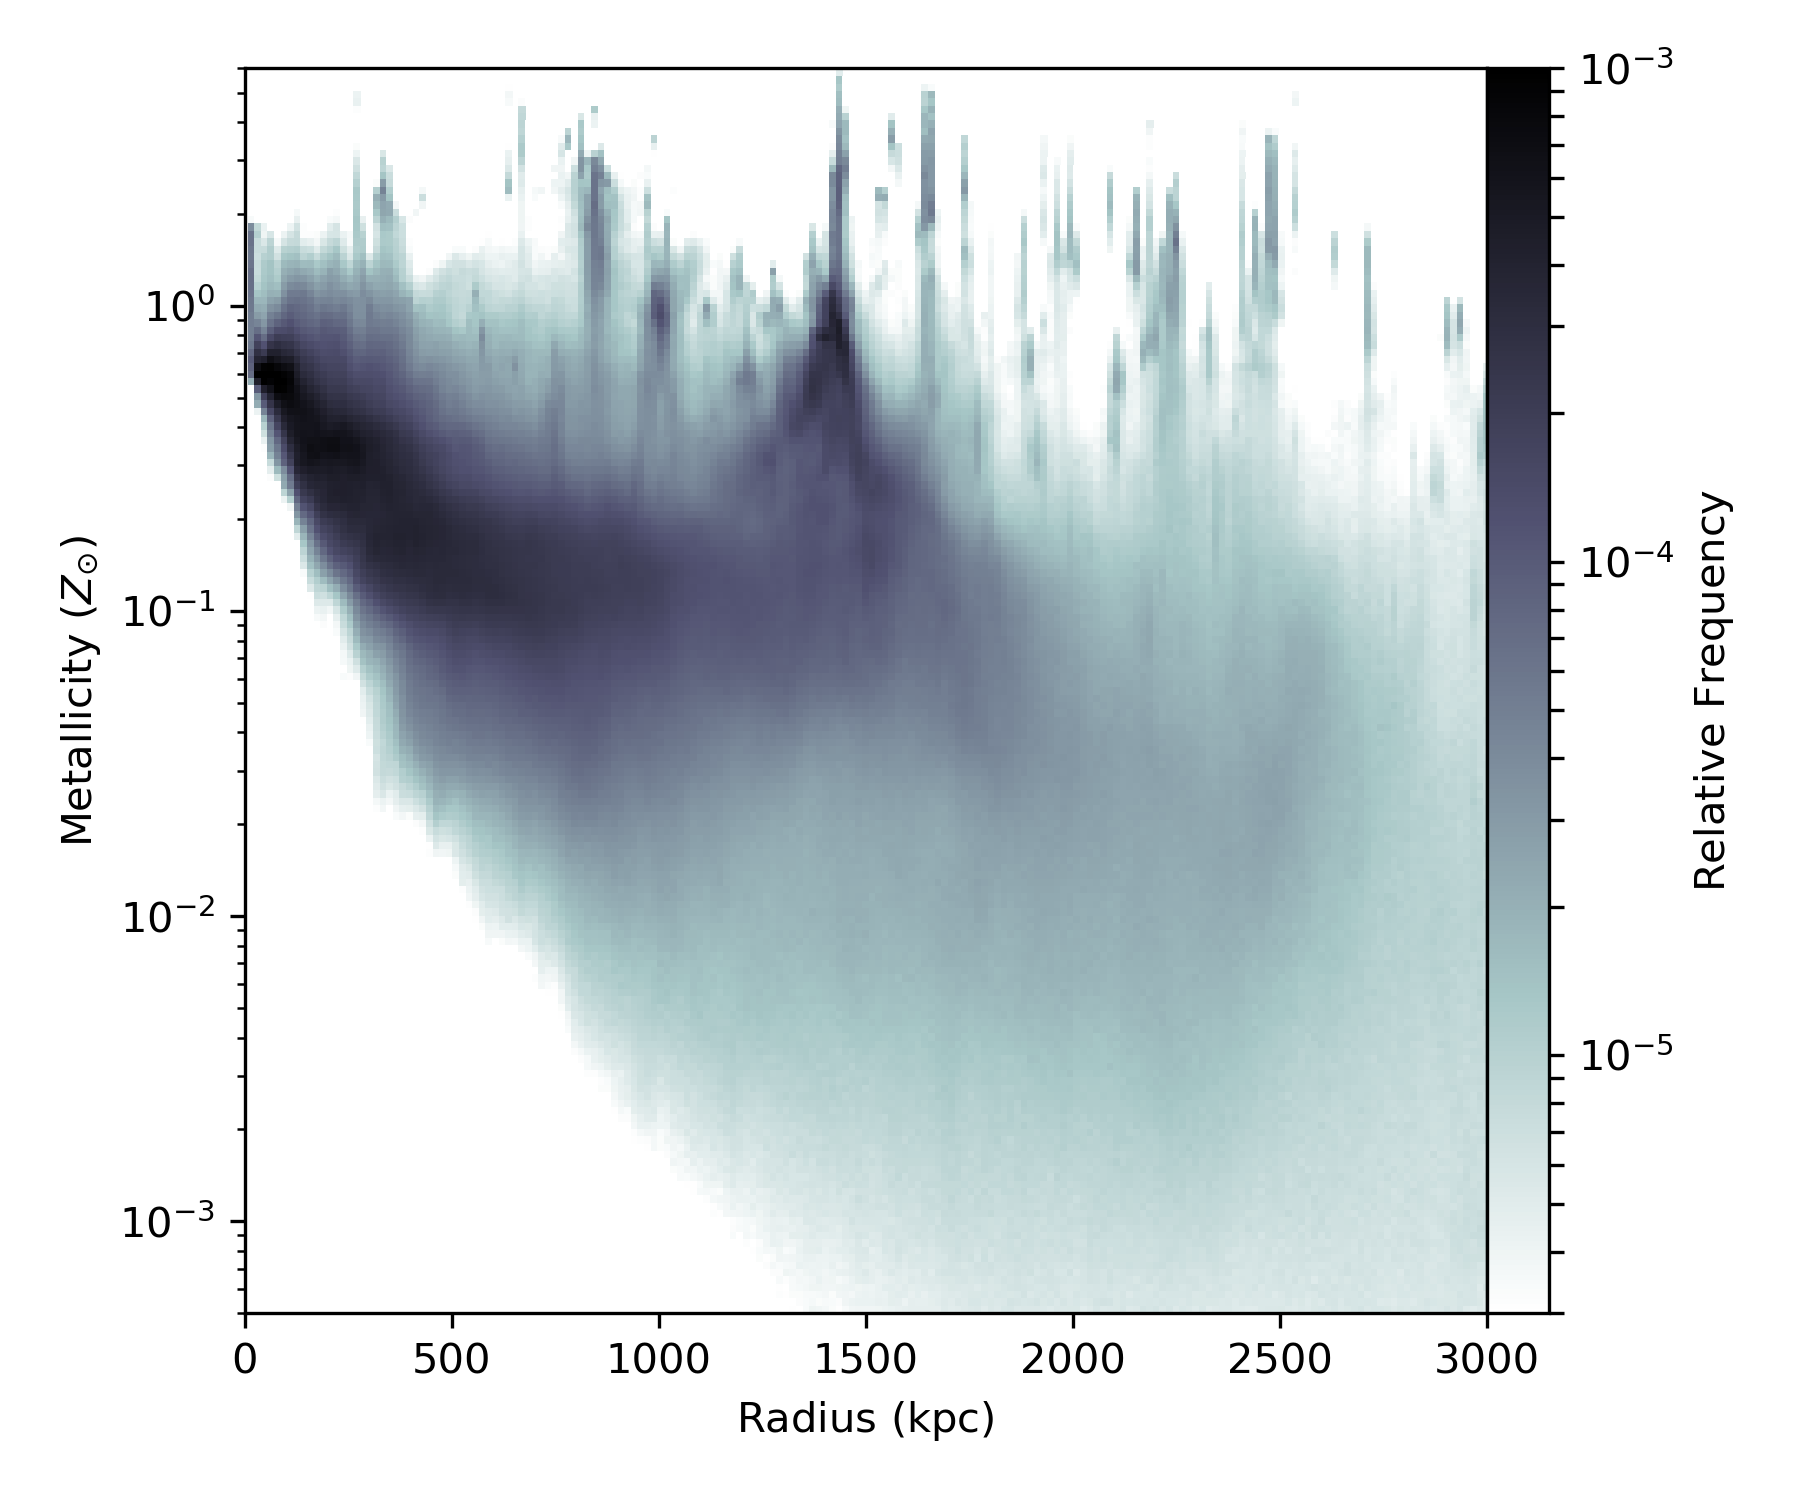
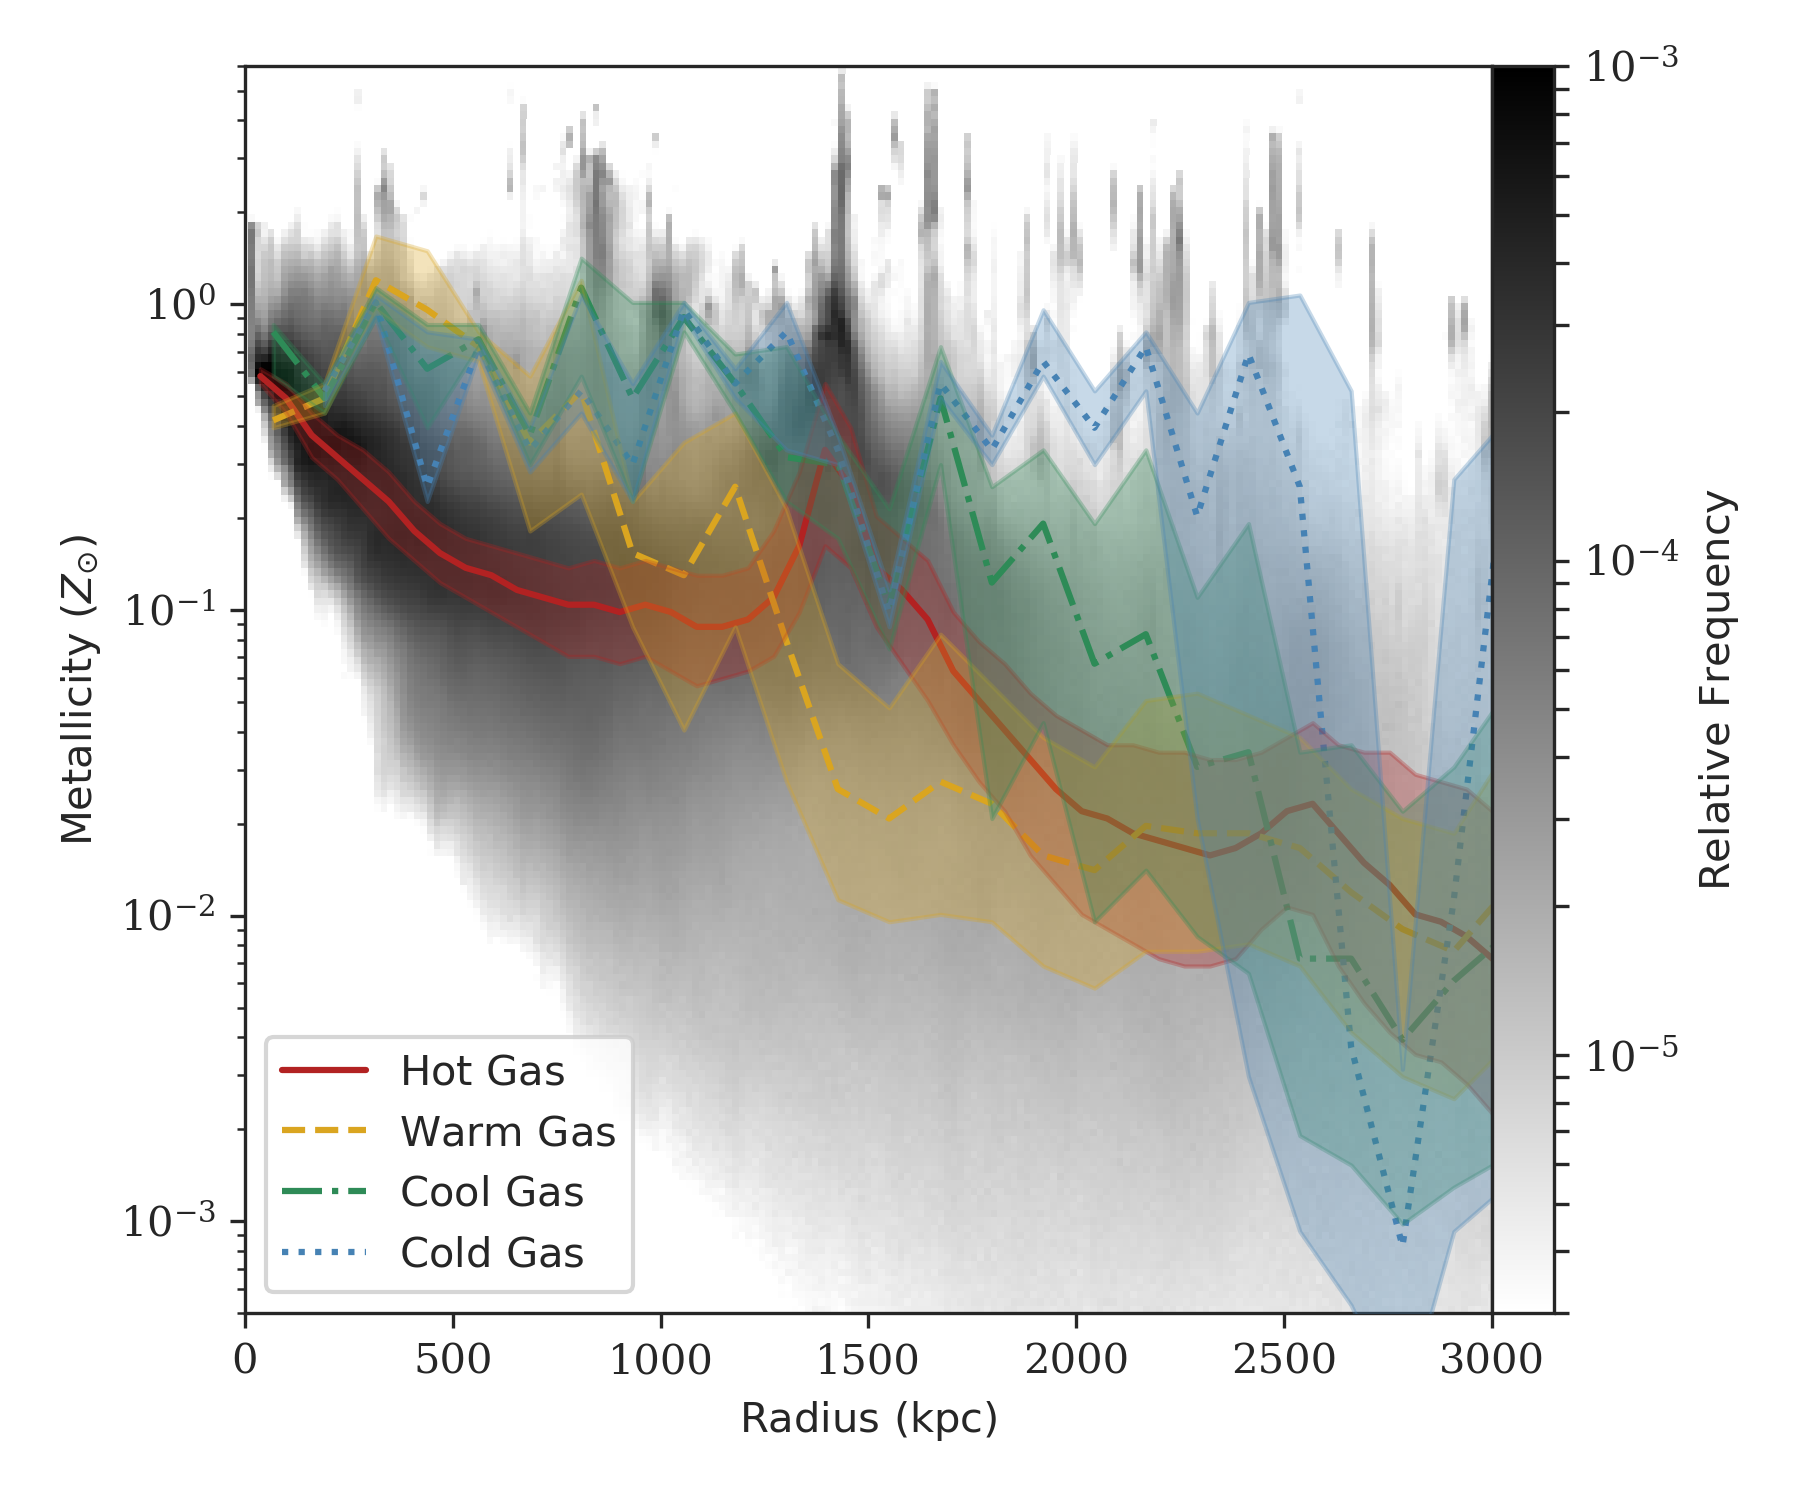
tempearture profiles in metallicity phase

diff --git a/plot_phase_plot.py b/plot_phase_plot.py
@@ -10,56 +10,80 @@ import ion_plot_definitions as ipd
 
 
 
-# metallicity vs spherical radius plot
-xfield = 'spherical_position_radius'
-yfield = 'metallicity'
-zfield = 'mass'
-xlabel = '$\mathrm{Radius\ (kpc)}$'
-ylabel = '$\mathrm{Metallicity}\ (Z_{\odot})$'
-cbar_label = '$\mathrm{Relative\ Frequency}$'
-xlim = (0, 3000)
-ylim = (5e-4, 6)
-zlim = (3e-6, 1e-3)
-cmap = 'bone_r'
-profile_color = matplotlib.cm.get_cmap(cmap)(0.75)
-xscale = 'linear'
-profile = True
+def plot_metallicity_radius(append_temperature_profiles = False):
+    # metallicity vs spherical radius plot
+    xfield = 'spherical_position_radius'
+    yfield = 'metallicity'
+    zfield = 'mass'
+    xlabel = '$\mathrm{Radius\ (kpc)}$'
+    ylabel = '$\mathrm{Metallicity}\ (Z_{\odot})$'
+    cbar_label = '$\mathrm{Relative\ Frequency}$'
+    xlim = (0, 3000)
+    ylim = (5e-4, 6)
+    zlim = (3e-6, 1e-3)
+    cmap = 'bone_r'
+    cmap = 'binary'
 
+    profile_color = matplotlib.cm.get_cmap(cmap)(0.75)
+    xscale = 'linear'
+    profile = False
 
-
-fig, ax, im, cbar = ipd.plot_phase(xfield, yfield, zfield, profile = profile, profile_color = profile_color, \
+    fig, ax, im, cbar = ipd.plot_phase(xfield, yfield, zfield, profile = profile, profile_color = profile_color, \
                                xlabel = xlabel, ylabel = ylabel, xlim = xlim, ylim = ylim, zlim = zlim, \
                                cbar_label = cbar_label, xscale = xscale, cmap = cmap)
-plt.savefig('metallicity_radius.png', dpi = 300)
 
 
 
+    if append_temperature_profiles:
+        data_list = ['_hot', '_warm', '_cool', '_cold']
+        #data_list = ['', '', '', '']                                                                                                                                        
+        cmap_list = ['firebrick', 'goldenrod', 'seagreen', 'steelblue']
+        title_list = ['$\mathrm{Hot\ Gas}$', '$\mathrm{Warm\ Gas}$', '$\mathrm{Cool\ Gas}$', '$\mathrm{Cold\ Gas}$']
+        linestyle_list = ['solid', 'dashed', 'dashdot', 'dotted']
+        nbins = [50, 25, 25, 25]
+#        zlim = (1e-8, 1e-3)
+        for i, data_cut in enumerate(data_list):
+            cmap = sns.dark_palette(cmap_list[i], as_cmap = True)
+            ffig, aax, im, cbar = ipd.plot_phase(xfield, yfield, zfield, fig = fig, ax = ax,do_pcolormesh = False, \
+                                         profile = True, profile_linestyle = linestyle_list[i], \
+                                                 profile_color = cmap_list[i], profile_label = title_list[i],\
+                               xlabel = xlabel, ylabel = ylabel, xlim = xlim, ylim = ylim, zlim = zlim, nbins = nbins[i],\
+                                   cbar_label = cbar_label, xscale = xscale, cmap = cmap, data_cut = data_cut)
+        ax.legend(loc = 'lower left')
+        fig.tight_layout()
+        plt.savefig('metallicity_radius.png', dpi = 300)
 
-# metalliciyt distribution 
-xfield = 'particle_H_nuclei_density'
-yfield = 'temperature'
-zfield = 'metallicity'
-xlabel = '$\mathrm{n}_{\mathrm{H}}\ (\mathrm{cm}^{-3})$'
-ylabel = '$\mathrm{Temperature\ (K)}$'
-cbar_label = '$\mathrm{Metallicity}\ (Z_{\odot})$'
-xlim = (1e-8, 1e2)
-ylim = (1e3, 5e9)
-zlim = (1e-3, 5)
-cmap = 'BrBG_r'
-cmap = 'cubehelix'
-cmap = 'gist_earth'
 
-#fig, ax, im, cbar = ipd.plot_phase(xfield, yfield, zfield, xlabel = xlabel, ylabel = ylabel, xlim = xlim, \
- #                    ylim = ylim, zlim = zlim, cbar_label = cbar_label,  cmap = cmap)
 
-#ipd.plot_box(ax, 1e-6, 1e-2, 1e4, 1e6)
-#ipd.plot_box(ax, 1e-4, .8, 2e6, 7e7) 
+def plot_metallicity_density():
+    # metalliciyt distribution 
+    xfield = 'particle_H_nuclei_density'
+    yfield = 'temperature'
+    zfield = 'metallicity'
+    xlabel = '$\mathrm{n}_{\mathrm{H}}\ (\mathrm{cm}^{-3})$'
+    ylabel = '$\mathrm{Temperature\ (K)}$'
+    cbar_label = '$\mathrm{Metallicity}\ (Z_{\odot})$'
+    xlim = (1e-8, 1e2)
+    ylim = (1e3, 5e9)
+    zlim = (1e-3, 5)
+    cmap = 'BrBG_r'
+    cmap = 'cubehelix'
+    cmap = 'gist_earth'
 
-fs = 13
-#ax.annotate('$\mathrm{Probed\ by\ UV}$\n $\mathrm{\ Absorption}$', xy = (3e-6, 5e4), fontsize = fs)
-#ax.annotate('Probed by X-ray \n \ \ Emission', xy = (2e-4, 8e6), fontsize = fs)
-#ax.annotate('$\mathrm{Probed\ by\ X}$-$\mathrm{ray}$\n $\mathrm{\ \ \ Emission}$', xy = (2e-4, 8e6), fontsize = fs)                                    
+    fig, ax, im, cbar = ipd.plot_phase(xfield, yfield, zfield, xlabel = xlabel, ylabel = ylabel, xlim = xlim, \
+                     ylim = ylim, zlim = zlim, cbar_label = cbar_label,  cmap = cmap)
 
-#plt.savefig('metallicity_phase.png', dpi = 300)
+    ipd.plot_box(ax, 1e-6, 1e-2, 1e4, 1e6)
+    ipd.plot_box(ax, 1e-4, .8, 2e6, 7e7) 
+
+    fs = 13
+    ax.annotate('$\mathrm{Probed\ by\ UV}$\n $\mathrm{\ Absorption}$', xy = (3e-6, 5e4), fontsize = fs)
+    ax.annotate('Probed by X-ray \n \ \ Emission', xy = (2e-4, 8e6), fontsize = fs)
+    ax.annotate('$\mathrm{Probed\ by\ X}$-$\mathrm{ray}$\n $\mathrm{\ \ \ Emission}$', xy = (2e-4, 8e6), fontsize = fs)                                    
+
+    plt.savefig('metallicity_phase.png', dpi = 300)
+
+
+plot_metallicity_radius(append_temperature_profiles = True)
 
 

diff --git a/ion_plot_definitions.py b/ion_plot_definitions.py
@@ -415,7 +415,8 @@ def plot_box(ax, xmin, xmax, ymin, ymax, color = 'black', linestyle = 'dashed'):
     ax.plot([xmax, xmax], [ymin, ymax], color = color, linestyle = linestyle)
 
 
-def plot_phase(xfield, yfield, zfield, profile = False, profile_color = 'black', profile_alpha = 0.3,\
+def plot_phase(xfield, yfield, zfield, do_pcolormesh = True, profile = False, profile_color = 'black', profile_alpha = 0.3,\
+               profile_label = None, profile_linestyle = 'dashed', \
                xlabel = None, ylabel = None, xlim = None, ylim = None, zlim = None, nbins = 50,\
                cmap = 'viridis', xscale = 'log', yscale = 'log', show_cbar = True, cbar_label = None, \
                fig = None, ax = None, output = 3035, data_cut = ''):
@@ -457,20 +458,23 @@ def plot_phase(xfield, yfield, zfield, profile = False, profile_color = 'black',
     ax.set_xscale(xscale)
     ax.set_yscale(yscale)
 
-    im = ax.pcolormesh(x, y, z.T, norm = LogNorm(), cmap = cmap, vmin = zlim[0], vmax = zlim[1])
-    if profile:
-        append_median_profile(ax, x, y, z, color = profile_color, alpha = profile_alpha, nbins = nbins)
+    if do_pcolormesh:
+        im = ax.pcolormesh(x, y, z.T, norm = LogNorm(), cmap = cmap, vmin = zlim[0], vmax = zlim[1])
 
-    if show_cbar:
-        cbar = fig.colorbar(im, ax = ax, orientation = 'vertical', pad = 0)
-        if cbar_label == None:
-            cbar.set_label(zfield)
-        else:
-            cbar.set_label(cbar_label)
-    #cbax.xaxis.set_ticks_position('top')          
-    #cbax.xaxis.set_label_position('top')    
-    if zlim == None:
-        zlim = (z.min(), z.max())
+        if show_cbar:
+            cbar = fig.colorbar(im, ax = ax, orientation = 'vertical', pad = 0)
+            if cbar_label == None:
+                cbar.set_label(zfield)
+            else:
+                cbar.set_label(cbar_label)
+    else:
+        im = None
+        cbar = None
+
+    if profile:
+        append_median_profile(ax, x, y, z, color = profile_color, alpha = profile_alpha, linestyle = profile_linestyle, \
+                              label = profile_label, nbins = nbins)
+
     fig.tight_layout()
     return fig, ax, im, cbar
 

diff --git a/plot_multipanel_metallicity_phase.py b/plot_multipanel_metallicity_phase.py
@@ -33,17 +33,20 @@ data_cut = ''
 
 fig, ax = plt.subplots(ncols = 2, nrows = 2, figsize = (12, 10), sharex = True, sharey = True)
 
-data_list = ['_warm', '_warm', '_cool', '_cold']
+
+data_list = ['_hot', '_warm', '_cool', '_cold']
 #data_list = ['', '', '', '']
 cmap_list = ['firebrick', 'goldenrod', 'seagreen', 'steelblue']
 title_list = ['$\mathrm{Hot\ Gas}$', '$\mathrm{Warm\ Gas}$', '$\mathrm{Cool\ Gas}$', '$\mathrm{Cold\ Gas}$'] 
 nbins = [50, 50, 50, 25]
-zlim = (1e-8, 1e-3)
+zlim = (1e-7, 1e-3)
 for i, data_cut in enumerate(data_list):
     row = int(i/2)
     col = i - 2*row
+   # ax = axes[row][col]
     cmap = sns.light_palette(cmap_list[i], as_cmap = True)
-    ffig, aax, im, cbar = ipd.plot_phase(xfield, yfield, zfield, fig = fig, ax = ax[row][col], profile = profile, profile_color = profile_color, \
+    ffig, aax, im, cbar = ipd.plot_phase(xfield, yfield, zfield, fig = fig, ax = ax[row][col], \
+                                         profile = profile, profile_color = profile_color, \
                                xlabel = xlabel, ylabel = ylabel, xlim = xlim, ylim = ylim, zlim = zlim, nbins = nbins[i],\
                                    cbar_label = cbar_label, xscale = xscale, cmap = cmap, data_cut = data_cut)
     if row == 0:
